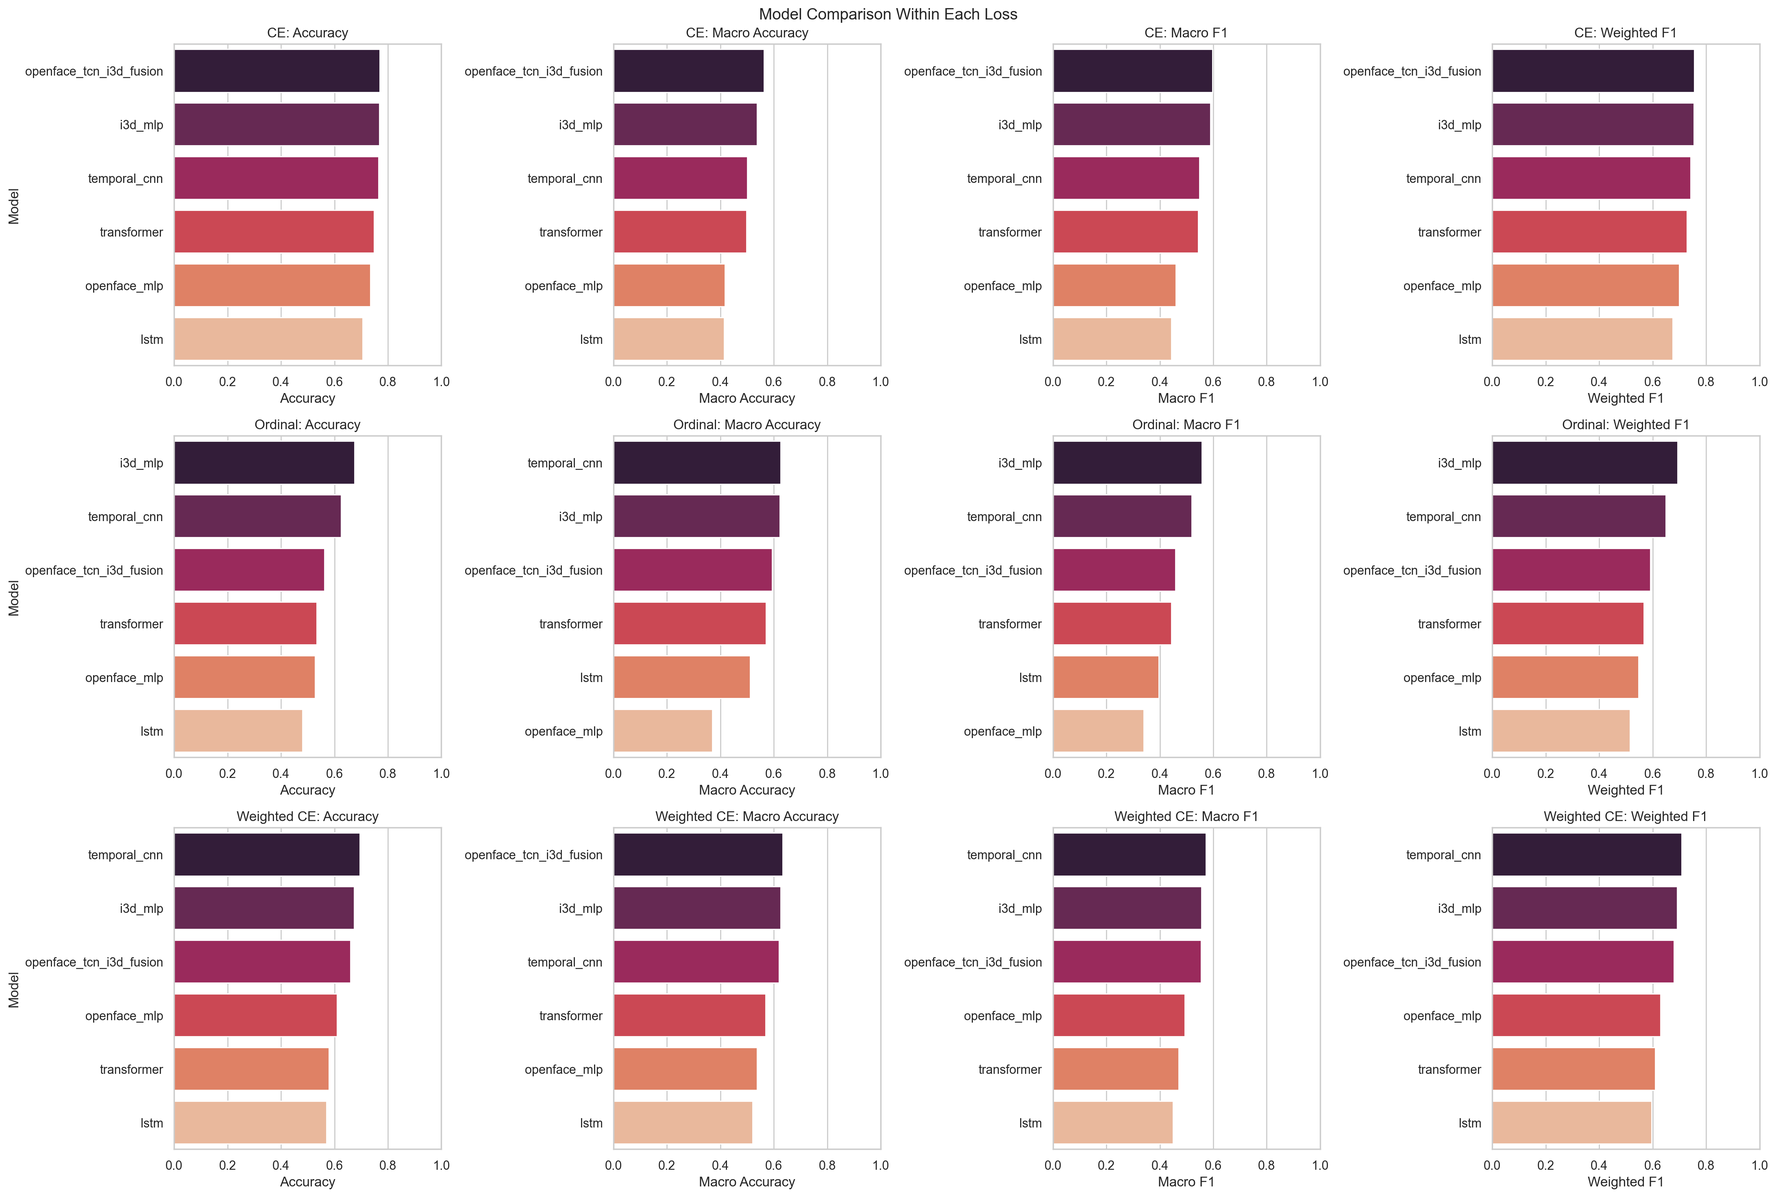
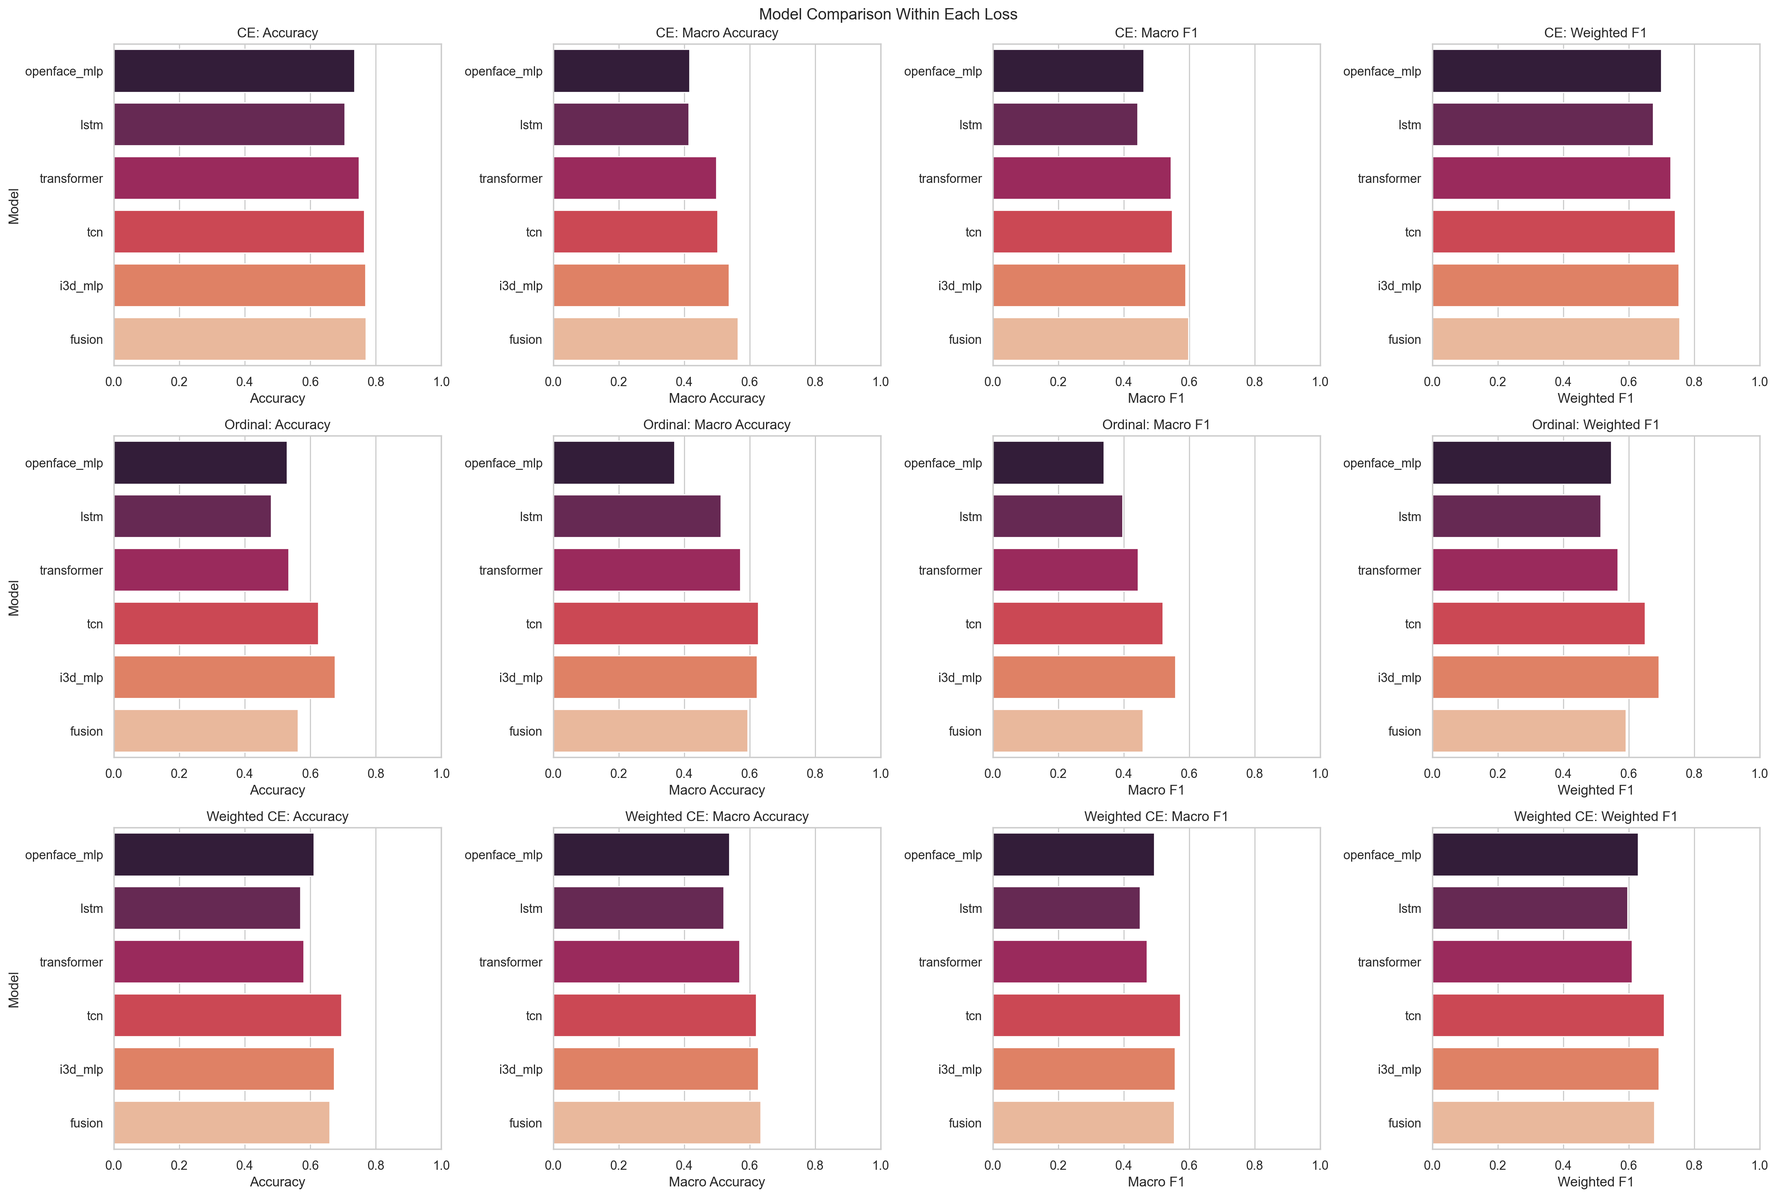
...

diff --git a/scripts/visualize_results.py b/scripts/visualize_results.py
@@ -32,6 +32,22 @@ LOSS_SLUGS = {
     "weighted_ce": "weighted_cross_entropy",
     "ordinal": "ordinal",
 }
+MODEL_ORDER = [
+    "openface_mlp",
+    "lstm",
+    "transformer",
+    "temporal_cnn",
+    "i3d_mlp",
+    "openface_tcn_i3d_fusion",
+]
+MODEL_DISPLAY_NAMES = {
+    "openface_mlp": "openface_mlp",
+    "lstm": "lstm",
+    "transformer": "transformer",
+    "temporal_cnn": "tcn",
+    "i3d_mlp": "i3d_mlp",
+    "openface_tcn_i3d_fusion": "fusion",
+}
 
 
 @dataclass
@@ -61,15 +77,34 @@ class RunResult:
 
     @property
     def model_label(self) -> str:
-        return self.base_model
+        return MODEL_DISPLAY_NAMES.get(self.base_model, self.base_model)
 
     @property
     def comparison_label(self) -> str:
-        return f"{self.base_model} [{self.loss_label}]"
+        return f"{self.model_label} [{self.loss_label}]"
 
     @property
     def variant_label(self) -> str:
         return self.loss_label
+
+
+def model_sort_key(model_name: str) -> tuple[int, str]:
+    try:
+        return (MODEL_ORDER.index(model_name), model_name)
+    except ValueError:
+        return (len(MODEL_ORDER), model_name)
+
+
+def apply_model_order(frame: pd.DataFrame) -> pd.DataFrame:
+    if frame.empty or "base_model" not in frame.columns:
+        return frame
+    ordered = frame.copy()
+    ordered["base_model"] = pd.Categorical(
+        ordered["base_model"],
+        categories=MODEL_ORDER,
+        ordered=True,
+    )
+    return ordered.sort_values(["base_model", "loss_label", "run_name"], na_position="last").reset_index(drop=True)
 
 
 def parse_args() -> argparse.Namespace:
@@ -134,10 +169,10 @@ def build_summary_frame(runs: list[RunResult]) -> pd.DataFrame:
         )
     frame = pd.DataFrame.from_records(rows)
     if not frame.empty:
-        frame = frame.sort_values(
-            ["f1_macro", "macro_accuracy", "accuracy", "f1_weighted"],
-            ascending=[False, False, False, False],
-        ).reset_index(drop=True)
+        frame["base_model_display"] = frame["base_model"].map(
+            lambda name: MODEL_DISPLAY_NAMES.get(str(name), str(name))
+        )
+        frame = apply_model_order(frame)
     return frame
 
 
@@ -148,7 +183,9 @@ def pick_best_run_per_model(summary_df: pd.DataFrame) -> pd.DataFrame:
         ["base_model", "f1_macro", "macro_accuracy", "accuracy", "f1_weighted"],
         ascending=[True, False, False, False, False],
     )
-    return ordered.drop_duplicates(subset=["base_model"], keep="first").reset_index(drop=True)
+    return apply_model_order(
+        ordered.drop_duplicates(subset=["base_model"], keep="first").reset_index(drop=True)
+    )
 
 
 def save_summary_csvs(summary_df: pd.DataFrame, best_df: pd.DataFrame, viz_dir: Path) -> None:
@@ -169,7 +206,7 @@ def plot_metric_bars(
 
     fig, axes = plt.subplots(2, 2, figsize=(18, 12))
     for ax, (column, metric_title) in zip(axes.flat, METRIC_SPECS, strict=False):
-        ordered = summary_df.sort_values(column, ascending=False)
+        ordered = apply_model_order(summary_df)
         sns.barplot(
             data=ordered,
             x=column,
@@ -194,7 +231,7 @@ def plot_best_epoch_bars(summary_df: pd.DataFrame, viz_dir: Path, *, filename: s
     if summary_df.empty or summary_df["best_epoch"].isna().all():
         return
 
-    ordered = summary_df.sort_values("best_epoch", ascending=False)
+    ordered = apply_model_order(summary_df)
     fig, ax = plt.subplots(figsize=(12, 8))
     sns.barplot(
         data=ordered,
@@ -211,45 +248,6 @@ def plot_best_epoch_bars(summary_df: pd.DataFrame, viz_dir: Path, *, filename: s
     ax.set_ylabel("")
     fig.tight_layout()
     fig.savefig(viz_dir / filename, dpi=200, bbox_inches="tight")
-    plt.close(fig)
-
-
-def plot_loss_comparison_within_model(summary_df: pd.DataFrame, viz_dir: Path) -> None:
-    if summary_df.empty:
-        return
-
-    model_names = [name for name, group in summary_df.groupby("base_model") if len(group) > 1]
-    if not model_names:
-        return
-
-    fig, axes = plt.subplots(
-        len(model_names),
-        len(METRIC_SPECS),
-        figsize=(22, 5 * len(model_names)),
-        squeeze=False,
-    )
-    for row_idx, model_name in enumerate(model_names):
-        model_df = summary_df[summary_df["base_model"] == model_name]
-        for col_idx, (metric, metric_title) in enumerate(METRIC_SPECS):
-            ax = axes[row_idx][col_idx]
-            ordered = model_df.sort_values(metric, ascending=False)
-            sns.barplot(
-                data=ordered,
-                x=metric,
-                y="loss_label",
-                hue="loss_label",
-                dodge=False,
-                legend=False,
-                ax=ax,
-                palette="mako",
-            )
-            ax.set_xlim(0.0, 1.0)
-            ax.set_title(f"{model_name}: {metric_title}")
-            ax.set_xlabel(metric_title)
-            ax.set_ylabel("" if col_idx else "Loss")
-    fig.suptitle("Loss Comparison Within Each Model", fontsize=14)
-    fig.tight_layout()
-    fig.savefig(viz_dir / "loss_comparison_within_model.png", dpi=200, bbox_inches="tight")
     plt.close(fig)
 
 
@@ -272,12 +270,12 @@ def plot_model_comparison_within_loss(summary_df: pd.DataFrame, viz_dir: Path) -
         loss_label = LOSS_LABELS.get(loss_name, loss_name)
         for col_idx, (metric, metric_title) in enumerate(METRIC_SPECS):
             ax = axes[row_idx][col_idx]
-            ordered = loss_df.sort_values(metric, ascending=False)
+            ordered = apply_model_order(loss_df)
             sns.barplot(
                 data=ordered,
                 x=metric,
-                y="base_model",
-                hue="base_model",
+                y="base_model_display",
+                hue="base_model_display",
                 dodge=False,
                 legend=False,
                 ax=ax,
@@ -301,6 +299,8 @@ def plot_metric_heatmaps(summary_df: pd.DataFrame, viz_dir: Path) -> None:
         pivot = summary_df.pivot_table(index="base_model", columns="loss_label", values=metric, aggfunc="max")
         if pivot.empty:
             continue
+        pivot = pivot.reindex(MODEL_ORDER).dropna(how="all")
+        pivot.index = [MODEL_DISPLAY_NAMES.get(str(index), str(index)) for index in pivot.index]
         fig, ax = plt.subplots(figsize=(8, max(4, len(pivot) * 0.8)))
         sns.heatmap(
             pivot,
@@ -328,12 +328,10 @@ def write_comparison_report(summary_df: pd.DataFrame, best_df: pd.DataFrame, viz
         "## Best Run Per Model",
         "",
     ]
-    for _, row in best_df.sort_values(
-        ["f1_macro", "macro_accuracy", "accuracy"], ascending=[False, False, False]
-    ).iterrows():
+    for _, row in apply_model_order(best_df).iterrows():
         lines.extend(
             [
-                f"- `{row['base_model']}`: run `{row['run_name']}` ({row['loss_label']})",
+                f"- `{row['base_model_display']}`: run `{row['run_name']}` ({row['loss_label']})",
                 f"  Macro F1={row['f1_macro']:.4f}, Macro Accuracy={row['macro_accuracy']:.4f}, Accuracy={row['accuracy']:.4f}, Weighted F1={row['f1_weighted']:.4f}, Best epoch={row['best_epoch']}",
             ]
         )
@@ -359,10 +357,10 @@ def write_comparison_report(summary_df: pd.DataFrame, best_df: pd.DataFrame, viz
     variant_models = [model for model, group in summary_df.groupby("base_model") if len(group) > 1]
     if variant_models:
         lines.extend(["", "## Loss Comparison By Model", ""])
-        for model_name in variant_models:
-            lines.append(f"### {model_name}")
+        for model_name in sorted(variant_models, key=model_sort_key):
+            lines.append(f"### {MODEL_DISPLAY_NAMES.get(model_name, model_name)}")
             model_df = summary_df[summary_df["base_model"] == model_name].sort_values(
-                ["f1_macro", "macro_accuracy", "accuracy"], ascending=[False, False, False]
+                ["loss_label"]
             )
             for _, row in model_df.iterrows():
                 lines.append(
@@ -376,12 +374,10 @@ def write_comparison_report(summary_df: pd.DataFrame, best_df: pd.DataFrame, viz
         for loss_name in grouped_losses:
             loss_label = LOSS_LABELS.get(loss_name, loss_name)
             lines.append(f"### {loss_label}")
-            loss_df = summary_df[summary_df["loss"] == loss_name].sort_values(
-                ["f1_macro", "macro_accuracy", "accuracy"], ascending=[False, False, False]
-            )
+            loss_df = apply_model_order(summary_df[summary_df["loss"] == loss_name])
             for _, row in loss_df.iterrows():
                 lines.append(
-                    f"- `{row['base_model']}`: run `{row['run_name']}`, Macro F1={row['f1_macro']:.4f}, Macro Accuracy={row['macro_accuracy']:.4f}, Accuracy={row['accuracy']:.4f}, Weighted F1={row['f1_weighted']:.4f}"
+                    f"- `{row['base_model_display']}`: run `{row['run_name']}`, Macro F1={row['f1_macro']:.4f}, Macro Accuracy={row['macro_accuracy']:.4f}, Accuracy={row['accuracy']:.4f}, Weighted F1={row['f1_weighted']:.4f}"
                 )
             lines.append("")
 
@@ -523,7 +519,7 @@ def main() -> None:
         viz_dir,
         filename="comparison_metrics_best_per_model.png",
         title="Best Run Comparison Across Models",
-        label_column="base_model",
+        label_column="base_model_display",
     )
     plot_metric_bars(
         summary_df,
@@ -538,7 +534,6 @@ def main() -> None:
         filename="best_epoch_comparison_all_runs.png",
         title="Best Checkpoint Epoch Across All Runs",
     )
-    plot_loss_comparison_within_model(summary_df, viz_dir)
     plot_model_comparison_within_loss(summary_df, viz_dir)
     plot_metric_heatmaps(summary_df, viz_dir)
     write_comparison_report(summary_df, best_df, viz_dir)

diff --git a/outputs/visualizations/comparison_report.md b/outputs/visualizations/comparison_report.md
@@ -2,18 +2,18 @@
 
 ## Best Run Per Model
 
-- `openface_tcn_i3d_fusion`: run `openface_tcn_i3d_fusion/ce` (CE)
-  Macro F1=0.5972, Macro Accuracy=0.5637, Accuracy=0.7699, Weighted F1=0.7555, Best epoch=6
-- `i3d_mlp`: run `i3d_mlp/ce` (CE)
-  Macro F1=0.5889, Macro Accuracy=0.5368, Accuracy=0.7682, Weighted F1=0.7534, Best epoch=6
-- `temporal_cnn`: run `temporal_cnn/weighted_ce` (Weighted CE)
-  Macro F1=0.5723, Macro Accuracy=0.6200, Accuracy=0.6945, Weighted F1=0.7085, Best epoch=61
-- `transformer`: run `transformer/ce` (CE)
-  Macro F1=0.5441, Macro Accuracy=0.4985, Accuracy=0.7486, Weighted F1=0.7289, Best epoch=25
 - `openface_mlp`: run `openface_mlp/weighted_ce` (Weighted CE)
   Macro F1=0.4928, Macro Accuracy=0.5376, Accuracy=0.6102, Weighted F1=0.6295, Best epoch=95
 - `lstm`: run `lstm/weighted_ce` (Weighted CE)
   Macro F1=0.4502, Macro Accuracy=0.5206, Accuracy=0.5700, Weighted F1=0.5963, Best epoch=31
+- `transformer`: run `transformer/ce` (CE)
+  Macro F1=0.5441, Macro Accuracy=0.4985, Accuracy=0.7486, Weighted F1=0.7289, Best epoch=25
+- `tcn`: run `temporal_cnn/weighted_ce` (Weighted CE)
+  Macro F1=0.5723, Macro Accuracy=0.6200, Accuracy=0.6945, Weighted F1=0.7085, Best epoch=61
+- `i3d_mlp`: run `i3d_mlp/ce` (CE)
+  Macro F1=0.5889, Macro Accuracy=0.5368, Accuracy=0.7682, Weighted F1=0.7534, Best epoch=6
+- `fusion`: run `openface_tcn_i3d_fusion/ce` (CE)
+  Macro F1=0.5972, Macro Accuracy=0.5637, Accuracy=0.7699, Weighted F1=0.7555, Best epoch=6
 
 ## Best Run Per Loss
 
@@ -26,58 +26,58 @@
 
 ## Loss Comparison By Model
 
+### openface_mlp
+- `CE`: run `openface_mlp/ce`, Macro F1=0.4608, Macro Accuracy=0.4163, Accuracy=0.7346, Weighted F1=0.6995
+- `Ordinal`: run `openface_mlp/ordinal`, Macro F1=0.3395, Macro Accuracy=0.3696, Accuracy=0.5283, Weighted F1=0.5473
+- `Weighted CE`: run `openface_mlp/weighted_ce`, Macro F1=0.4928, Macro Accuracy=0.5376, Accuracy=0.6102, Weighted F1=0.6295
+
+### lstm
+- `CE`: run `lstm/ce`, Macro F1=0.4429, Macro Accuracy=0.4139, Accuracy=0.7052, Weighted F1=0.6754
+- `Ordinal`: run `lstm/ordinal`, Macro F1=0.3964, Macro Accuracy=0.5120, Accuracy=0.4808, Weighted F1=0.5149
+- `Weighted CE`: run `lstm/weighted_ce`, Macro F1=0.4502, Macro Accuracy=0.5206, Accuracy=0.5700, Weighted F1=0.5963
+
+### transformer
+- `CE`: run `transformer/ce`, Macro F1=0.5441, Macro Accuracy=0.4985, Accuracy=0.7486, Weighted F1=0.7289
+- `Ordinal`: run `transformer/ordinal`, Macro F1=0.4441, Macro Accuracy=0.5714, Accuracy=0.5332, Weighted F1=0.5665
+- `Weighted CE`: run `transformer/weighted_ce`, Macro F1=0.4712, Macro Accuracy=0.5685, Accuracy=0.5799, Weighted F1=0.6099
+
+### tcn
+- `CE`: run `temporal_cnn/ce`, Macro F1=0.5478, Macro Accuracy=0.5012, Accuracy=0.7649, Weighted F1=0.7423
+- `Ordinal`: run `temporal_cnn/ordinal`, Macro F1=0.5192, Macro Accuracy=0.6260, Accuracy=0.6249, Weighted F1=0.6498
+- `Weighted CE`: run `temporal_cnn/weighted_ce`, Macro F1=0.5723, Macro Accuracy=0.6200, Accuracy=0.6945, Weighted F1=0.7085
+
 ### i3d_mlp
 - `CE`: run `i3d_mlp/ce`, Macro F1=0.5889, Macro Accuracy=0.5368, Accuracy=0.7682, Weighted F1=0.7534
 - `Ordinal`: run `i3d_mlp/ordinal`, Macro F1=0.5576, Macro Accuracy=0.6227, Accuracy=0.6757, Weighted F1=0.6928
 - `Weighted CE`: run `i3d_mlp/weighted_ce`, Macro F1=0.5567, Macro Accuracy=0.6255, Accuracy=0.6732, Weighted F1=0.6924
 
-### lstm
-- `Weighted CE`: run `lstm/weighted_ce`, Macro F1=0.4502, Macro Accuracy=0.5206, Accuracy=0.5700, Weighted F1=0.5963
-- `CE`: run `lstm/ce`, Macro F1=0.4429, Macro Accuracy=0.4139, Accuracy=0.7052, Weighted F1=0.6754
-- `Ordinal`: run `lstm/ordinal`, Macro F1=0.3964, Macro Accuracy=0.5120, Accuracy=0.4808, Weighted F1=0.5149
-
-### openface_mlp
-- `Weighted CE`: run `openface_mlp/weighted_ce`, Macro F1=0.4928, Macro Accuracy=0.5376, Accuracy=0.6102, Weighted F1=0.6295
-- `CE`: run `openface_mlp/ce`, Macro F1=0.4608, Macro Accuracy=0.4163, Accuracy=0.7346, Weighted F1=0.6995
-- `Ordinal`: run `openface_mlp/ordinal`, Macro F1=0.3395, Macro Accuracy=0.3696, Accuracy=0.5283, Weighted F1=0.5473
-
-### openface_tcn_i3d_fusion
+### fusion
 - `CE`: run `openface_tcn_i3d_fusion/ce`, Macro F1=0.5972, Macro Accuracy=0.5637, Accuracy=0.7699, Weighted F1=0.7555
-- `Weighted CE`: run `openface_tcn_i3d_fusion/weighted_ce`, Macro F1=0.5542, Macro Accuracy=0.6337, Accuracy=0.6593, Weighted F1=0.6790
 - `Ordinal`: run `openface_tcn_i3d_fusion/ordinal`, Macro F1=0.4591, Macro Accuracy=0.5933, Accuracy=0.5627, Weighted F1=0.5919
-
-### temporal_cnn
-- `Weighted CE`: run `temporal_cnn/weighted_ce`, Macro F1=0.5723, Macro Accuracy=0.6200, Accuracy=0.6945, Weighted F1=0.7085
-- `CE`: run `temporal_cnn/ce`, Macro F1=0.5478, Macro Accuracy=0.5012, Accuracy=0.7649, Weighted F1=0.7423
-- `Ordinal`: run `temporal_cnn/ordinal`, Macro F1=0.5192, Macro Accuracy=0.6260, Accuracy=0.6249, Weighted F1=0.6498
-
-### transformer
-- `CE`: run `transformer/ce`, Macro F1=0.5441, Macro Accuracy=0.4985, Accuracy=0.7486, Weighted F1=0.7289
-- `Weighted CE`: run `transformer/weighted_ce`, Macro F1=0.4712, Macro Accuracy=0.5685, Accuracy=0.5799, Weighted F1=0.6099
-- `Ordinal`: run `transformer/ordinal`, Macro F1=0.4441, Macro Accuracy=0.5714, Accuracy=0.5332, Weighted F1=0.5665
+- `Weighted CE`: run `openface_tcn_i3d_fusion/weighted_ce`, Macro F1=0.5542, Macro Accuracy=0.6337, Accuracy=0.6593, Weighted F1=0.6790
 
 ## Model Comparison By Loss
 
 ### CE
-- `openface_tcn_i3d_fusion`: run `openface_tcn_i3d_fusion/ce`, Macro F1=0.5972, Macro Accuracy=0.5637, Accuracy=0.7699, Weighted F1=0.7555
-- `i3d_mlp`: run `i3d_mlp/ce`, Macro F1=0.5889, Macro Accuracy=0.5368, Accuracy=0.7682, Weighted F1=0.7534
-- `temporal_cnn`: run `temporal_cnn/ce`, Macro F1=0.5478, Macro Accuracy=0.5012, Accuracy=0.7649, Weighted F1=0.7423
-- `transformer`: run `transformer/ce`, Macro F1=0.5441, Macro Accuracy=0.4985, Accuracy=0.7486, Weighted F1=0.7289
 - `openface_mlp`: run `openface_mlp/ce`, Macro F1=0.4608, Macro Accuracy=0.4163, Accuracy=0.7346, Weighted F1=0.6995
 - `lstm`: run `lstm/ce`, Macro F1=0.4429, Macro Accuracy=0.4139, Accuracy=0.7052, Weighted F1=0.6754
+- `transformer`: run `transformer/ce`, Macro F1=0.5441, Macro Accuracy=0.4985, Accuracy=0.7486, Weighted F1=0.7289
+- `tcn`: run `temporal_cnn/ce`, Macro F1=0.5478, Macro Accuracy=0.5012, Accuracy=0.7649, Weighted F1=0.7423
+- `i3d_mlp`: run `i3d_mlp/ce`, Macro F1=0.5889, Macro Accuracy=0.5368, Accuracy=0.7682, Weighted F1=0.7534
+- `fusion`: run `openface_tcn_i3d_fusion/ce`, Macro F1=0.5972, Macro Accuracy=0.5637, Accuracy=0.7699, Weighted F1=0.7555
 
 ### Ordinal
-- `i3d_mlp`: run `i3d_mlp/ordinal`, Macro F1=0.5576, Macro Accuracy=0.6227, Accuracy=0.6757, Weighted F1=0.6928
-- `temporal_cnn`: run `temporal_cnn/ordinal`, Macro F1=0.5192, Macro Accuracy=0.6260, Accuracy=0.6249, Weighted F1=0.6498
-- `openface_tcn_i3d_fusion`: run `openface_tcn_i3d_fusion/ordinal`, Macro F1=0.4591, Macro Accuracy=0.5933, Accuracy=0.5627, Weighted F1=0.5919
-- `transformer`: run `transformer/ordinal`, Macro F1=0.4441, Macro Accuracy=0.5714, Accuracy=0.5332, Weighted F1=0.5665
-- `lstm`: run `lstm/ordinal`, Macro F1=0.3964, Macro Accuracy=0.5120, Accuracy=0.4808, Weighted F1=0.5149
 - `openface_mlp`: run `openface_mlp/ordinal`, Macro F1=0.3395, Macro Accuracy=0.3696, Accuracy=0.5283, Weighted F1=0.5473
+- `lstm`: run `lstm/ordinal`, Macro F1=0.3964, Macro Accuracy=0.5120, Accuracy=0.4808, Weighted F1=0.5149
+- `transformer`: run `transformer/ordinal`, Macro F1=0.4441, Macro Accuracy=0.5714, Accuracy=0.5332, Weighted F1=0.5665
+- `tcn`: run `temporal_cnn/ordinal`, Macro F1=0.5192, Macro Accuracy=0.6260, Accuracy=0.6249, Weighted F1=0.6498
+- `i3d_mlp`: run `i3d_mlp/ordinal`, Macro F1=0.5576, Macro Accuracy=0.6227, Accuracy=0.6757, Weighted F1=0.6928
+- `fusion`: run `openface_tcn_i3d_fusion/ordinal`, Macro F1=0.4591, Macro Accuracy=0.5933, Accuracy=0.5627, Weighted F1=0.5919
 
 ### Weighted CE
-- `temporal_cnn`: run `temporal_cnn/weighted_ce`, Macro F1=0.5723, Macro Accuracy=0.6200, Accuracy=0.6945, Weighted F1=0.7085
-- `i3d_mlp`: run `i3d_mlp/weighted_ce`, Macro F1=0.5567, Macro Accuracy=0.6255, Accuracy=0.6732, Weighted F1=0.6924
-- `openface_tcn_i3d_fusion`: run `openface_tcn_i3d_fusion/weighted_ce`, Macro F1=0.5542, Macro Accuracy=0.6337, Accuracy=0.6593, Weighted F1=0.6790
 - `openface_mlp`: run `openface_mlp/weighted_ce`, Macro F1=0.4928, Macro Accuracy=0.5376, Accuracy=0.6102, Weighted F1=0.6295
-- `transformer`: run `transformer/weighted_ce`, Macro F1=0.4712, Macro Accuracy=0.5685, Accuracy=0.5799, Weighted F1=0.6099
 - `lstm`: run `lstm/weighted_ce`, Macro F1=0.4502, Macro Accuracy=0.5206, Accuracy=0.5700, Weighted F1=0.5963
+- `transformer`: run `transformer/weighted_ce`, Macro F1=0.4712, Macro Accuracy=0.5685, Accuracy=0.5799, Weighted F1=0.6099
+- `tcn`: run `temporal_cnn/weighted_ce`, Macro F1=0.5723, Macro Accuracy=0.6200, Accuracy=0.6945, Weighted F1=0.7085
+- `i3d_mlp`: run `i3d_mlp/weighted_ce`, Macro F1=0.5567, Macro Accuracy=0.6255, Accuracy=0.6732, Weighted F1=0.6924
+- `fusion`: run `openface_tcn_i3d_fusion/weighted_ce`, Macro F1=0.5542, Macro Accuracy=0.6337, Accuracy=0.6593, Weighted F1=0.6790

diff --git a/outputs/visualizations/openface_tcn_i3d_fusion/weighted_ce/report.md b/outputs/visualizations/openface_tcn_i3d_fusion/weighted_ce/report.md
@@ -1,4 +1,4 @@
-# openface_tcn_i3d_fusion [Weighted CE]
+# fusion [Weighted CE]
 
 - Run folder: `openface_tcn_i3d_fusion/weighted_ce`
 - Metrics file: `outputs\openface_tcn_i3d_fusion\weighted_ce\metrics.json`

diff --git a/outputs/visualizations/openface_tcn_i3d_fusion/ordinal/report.md b/outputs/visualizations/openface_tcn_i3d_fusion/ordinal/report.md
@@ -1,4 +1,4 @@
-# openface_tcn_i3d_fusion [Ordinal]
+# fusion [Ordinal]
 
 - Run folder: `openface_tcn_i3d_fusion/ordinal`
 - Metrics file: `outputs\openface_tcn_i3d_fusion\ordinal\metrics.json`

diff --git a/outputs/visualizations/openface_tcn_i3d_fusion/ce/report.md b/outputs/visualizations/openface_tcn_i3d_fusion/ce/report.md
@@ -1,4 +1,4 @@
-# openface_tcn_i3d_fusion [CE]
+# fusion [CE]
 
 - Run folder: `openface_tcn_i3d_fusion/ce`
 - Metrics file: `outputs\openface_tcn_i3d_fusion\ce\metrics.json`

diff --git a/outputs/visualizations/temporal_cnn/weighted_ce/report.md b/outputs/visualizations/temporal_cnn/weighted_ce/report.md
@@ -1,4 +1,4 @@
-# temporal_cnn [Weighted CE]
+# tcn [Weighted CE]
 
 - Run folder: `temporal_cnn/weighted_ce`
 - Metrics file: `outputs\temporal_cnn\weighted_ce\metrics.json`

diff --git a/outputs/visualizations/temporal_cnn/ordinal/report.md b/outputs/visualizations/temporal_cnn/ordinal/report.md
@@ -1,4 +1,4 @@
-# temporal_cnn [Ordinal]
+# tcn [Ordinal]
 
 - Run folder: `temporal_cnn/ordinal`
 - Metrics file: `outputs\temporal_cnn\ordinal\metrics.json`

diff --git a/outputs/visualizations/smoke_temporal_cnn/report.md b/outputs/visualizations/smoke_temporal_cnn/report.md
@@ -1,4 +1,4 @@
-# temporal_cnn [CE]
+# tcn [CE]
 
 - Run folder: `smoke_temporal_cnn`
 - Metrics file: `outputs\smoke_temporal_cnn\metrics.json`

diff --git a/outputs/visualizations/temporal_cnn/ce/report.md b/outputs/visualizations/temporal_cnn/ce/report.md
@@ -1,4 +1,4 @@
-# temporal_cnn [CE]
+# tcn [CE]
 
 - Run folder: `temporal_cnn/ce`
 - Metrics file: `outputs\temporal_cnn\ce\metrics.json`
